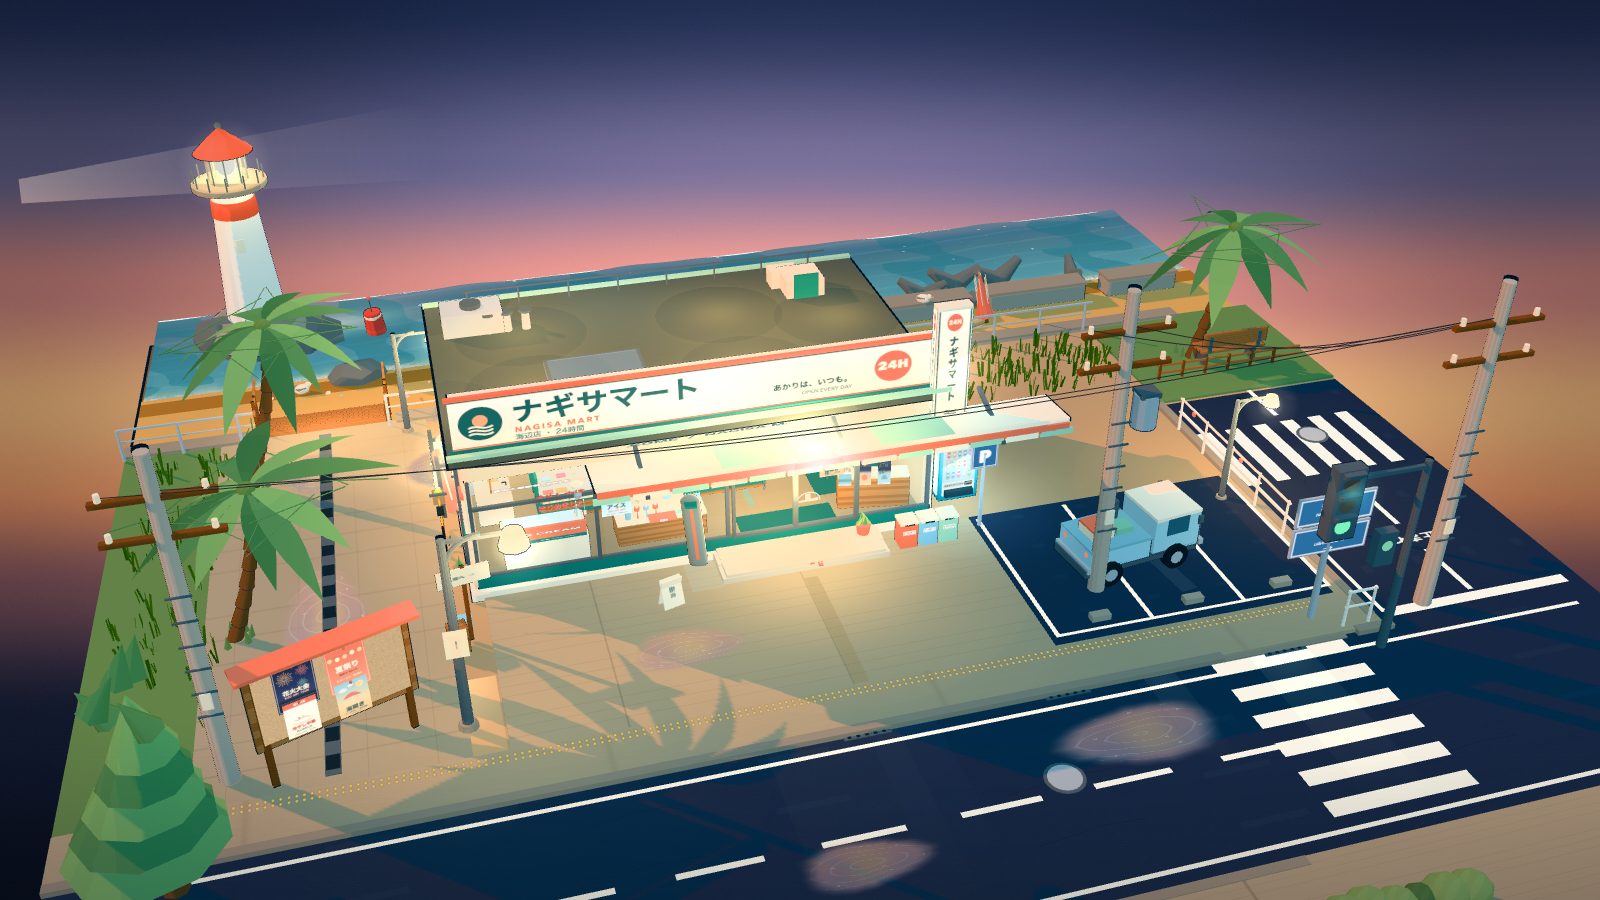
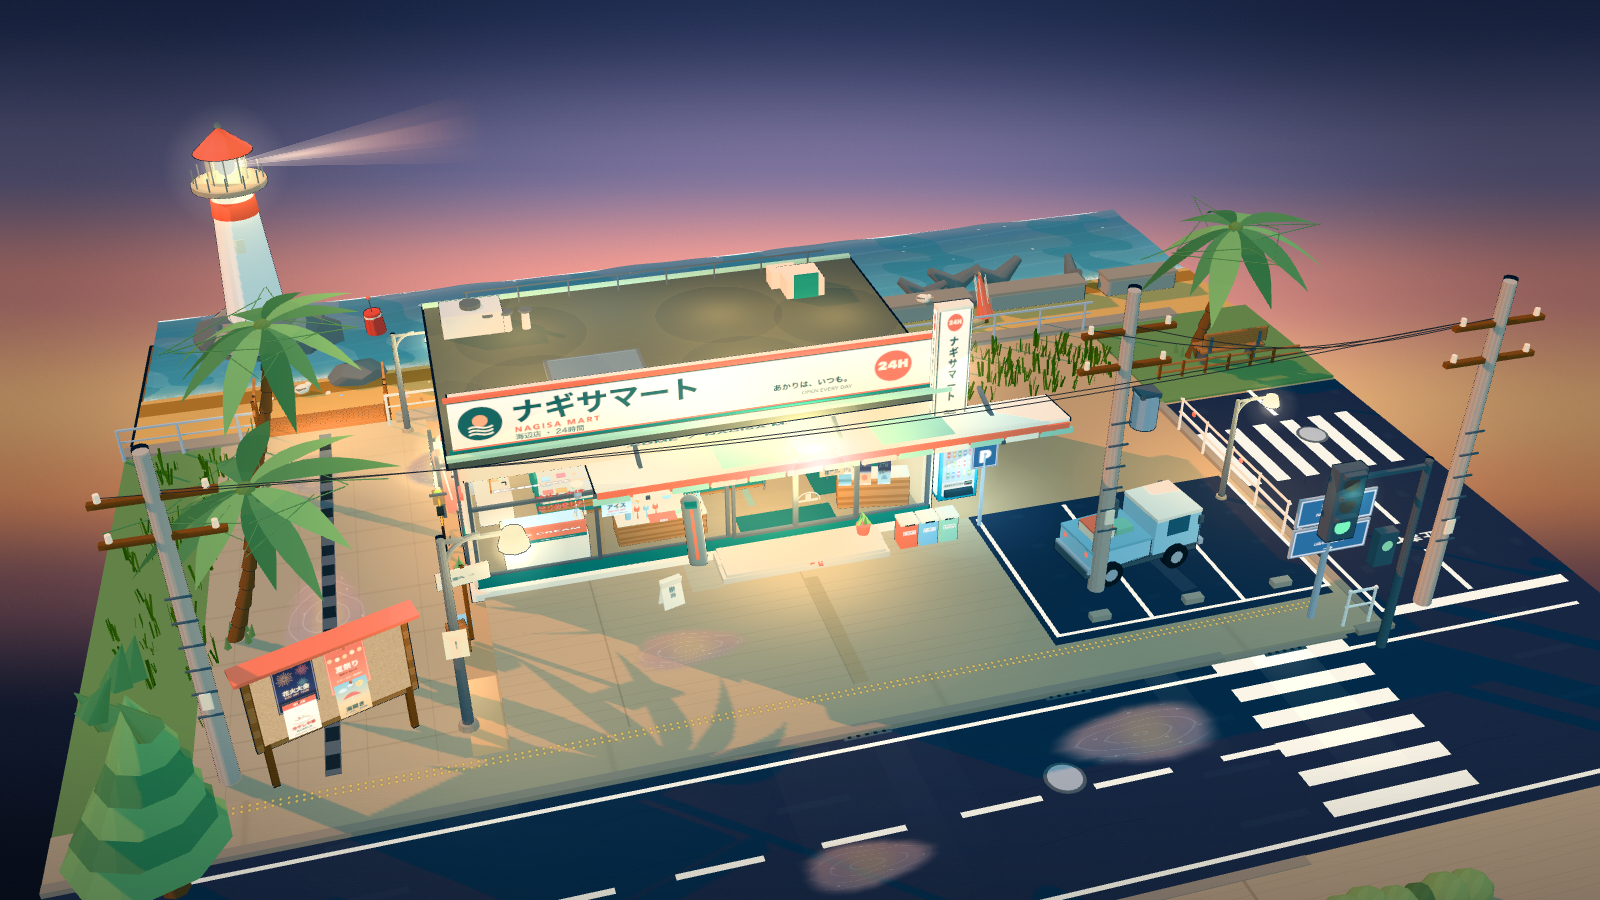
fix(seaside-store): 修正灯塔光束

Changed region(s): [[0.0, 0.1556, 0.125, 0.2489], [0.1562, 0.1244, 0.2812, 0.1867], [0.1875, 0.3422, 0.25, 0.3733]]

diff --git a/lab/seaside-store/src/world.js b/lab/seaside-store/src/world.js
@@ -481,58 +481,68 @@ function buildLighthouse(parent, M) {
   }
   // 灯芯
   const lampCore = sph(g, 0.3, 0, 5.72, 0, lit('#fff0c0'), { seg: 12, cast: false });
-  const glow = sprite(g, glowMap, '#ffdca2', 3.0, 0, 5.72, 0, { opacity: 0.6 });
+  const glow = sprite(g, glowMap, '#ffdca2', 4.0, 0, 5.72, 0, { opacity: 0.66 });
   // 屋顶
   cyl(g, 0.05, 0.9, 0.75, 0, 6.58, 0, M.lighthouseRed, { seg: 18, outline: 1.02 });
   sph(g, 0.1, 0, 7.02, 0, M.metalDark, { seg: 8 });
 
-  // 扫过海面的光束：贴着水面的长条光带，比天空里的体积光更克制
-  const beamTex = canvasTexture(512, 128, (ctx, w, h) => {
-    const gx = ctx.createLinearGradient(0, 0, w, 0);
-    gx.addColorStop(0, 'rgba(255,255,255,.95)');
-    gx.addColorStop(0.25, 'rgba(255,255,255,.5)');
-    gx.addColorStop(0.7, 'rgba(255,255,255,.16)');
-    gx.addColorStop(1, 'rgba(255,255,255,0)');
-    ctx.fillStyle = gx; ctx.fillRect(0, 0, w, h);
-    ctx.globalCompositeOperation = 'destination-in';
-    const gy = ctx.createLinearGradient(0, 0, 0, h);
-    gy.addColorStop(0, 'rgba(0,0,0,0)');
-    gy.addColorStop(0.5, 'rgba(0,0,0,1)');
-    gy.addColorStop(1, 'rgba(0,0,0,0)');
-    ctx.fillStyle = gy; ctx.fillRect(0, 0, w, h);
+  // 旋转光束：从灯室水平扫过海面的三渲二体积光
+  // 由四片绕光束轴旋转的楔形面组成，从任何水平视角都能看到柔和的光束，
+  // 不再是贴在镜头上的平面贴图。
+  const BEAM_LEN = 8.5;
+  const BEAM_W = 2.7;
+  const beamGroup = new THREE.Group();
+  beamGroup.position.set(0, 5.72, 0);
+  g.add(beamGroup);
+
+  const beamGeo = new THREE.BufferGeometry();
+  beamGeo.setAttribute('position', new THREE.BufferAttribute(new Float32Array([
+    0, -0.045, 0, 0, 0.045, 0, BEAM_LEN, -BEAM_W / 2, 0, BEAM_LEN, BEAM_W / 2, 0,
+  ]), 3));
+  beamGeo.setAttribute('uv', new THREE.BufferAttribute(new Float32Array([
+    0, 0, 0, 1, 1, 0, 1, 1,
+  ]), 2));
+  beamGeo.setIndex([0, 1, 2, 1, 3, 2]);
+
+  const beamUniforms = {
+    uTime: { value: 0 },
+    uColorA: { value: new THREE.Color('#fff1cd') },
+    uColorB: { value: new THREE.Color('#ffb15f') },
+    uOpacity: { value: 0.34 },
+  };
+  const beamMat = new THREE.ShaderMaterial({
+    uniforms: beamUniforms,
+    transparent: true,
+    depthWrite: false,
+    side: THREE.DoubleSide,
+    blending: THREE.AdditiveBlending,
+    toneMapped: false,
+    vertexShader: /* glsl */`
+      varying vec2 vUv;
+      void main() {
+        vUv = uv;
+        gl_Position = projectionMatrix * modelViewMatrix * vec4(position, 1.0);
+      }`,
+    fragmentShader: /* glsl */`
+      uniform float uTime, uOpacity;
+      uniform vec3 uColorA, uColorB;
+      varying vec2 vUv;
+      void main() {
+        float u = vUv.x;
+        float edge = smoothstep(0.0, 0.17, vUv.y) * smoothstep(1.0, 0.83, vUv.y);
+        float fade = smoothstep(0.0, 0.06, u) * pow(max(1.0 - u, 0.0), 1.35);
+        float flick = 0.92 + 0.08 * sin(uTime * 1.7 + u * 7.0);
+        vec3 col = mix(uColorA, uColorB, smoothstep(0.0, 1.0, u));
+        gl_FragColor = vec4(col, fade * edge * uOpacity * flick);
+      }`,
   });
-  const beamMat = new THREE.MeshBasicMaterial({
-    map: beamTex, color: '#ffdca2', transparent: true, opacity: 0.7, side: THREE.DoubleSide,
-    blending: THREE.AdditiveBlending, depthWrite: false, toneMapped: false,
-  });
-  const beams = new THREE.Group();
-  beams.position.set(0, -0.39, 0);
-  g.add(beams);
-  const beamPlane = new THREE.Mesh(new THREE.PlaneGeometry(6.6, 2.6), beamMat);
-  beamPlane.rotation.x = -Math.PI / 2;
-  beamPlane.position.set(3.3, 0.12, 0);
-  beamPlane.renderOrder = 10;
-  beams.add(beamPlane);
-  // 相机朝向的柔光束，保证任何角度都能看见灯塔在扫光
-  const shaftTex = canvasTexture(256, 128, (ctx, w, h) => {
-    ctx.clearRect(0, 0, w, h);
-    const g = ctx.createLinearGradient(0, 0, w, 0);
-    g.addColorStop(0, 'rgba(255,255,255,.9)');
-    g.addColorStop(0.4, 'rgba(255,255,255,.35)');
-    g.addColorStop(1, 'rgba(255,255,255,0)');
-    ctx.fillStyle = g;
-    ctx.beginPath();
-    ctx.moveTo(0, h * 0.38); ctx.lineTo(w, h * 0.12); ctx.lineTo(w, h * 0.88); ctx.lineTo(0, h * 0.62);
-    ctx.closePath(); ctx.fill();
-  });
-  const shaftMat = new THREE.SpriteMaterial({
-    map: shaftTex, color: '#ffe0a8', transparent: true, opacity: 0.32,
-    blending: THREE.AdditiveBlending, depthWrite: false, toneMapped: false,
-  });
-  const shaft = new THREE.Sprite(shaftMat);
-  shaft.position.set(0, 5.72, 0);
-  shaft.scale.set(13, 3.2, 1);
-  g.add(shaft);
+  for (let i = 0; i < 4; i++) {
+    const bm = new THREE.Mesh(beamGeo, beamMat);
+    bm.rotation.x = (i / 4) * Math.PI;
+    bm.renderOrder = 9;
+    beamGroup.add(bm);
+  }
+
   const light = new THREE.PointLight('#ffdca2', 6, 14, 2);
   light.position.set(0, 5.8, 0);
   g.add(light);
@@ -540,13 +550,13 @@ function buildLighthouse(parent, M) {
   return {
     group: g,
     update(t, dt) {
-      beams.rotation.y = -0.2 + Math.sin(t * 0.25) * 0.35;
-      const pulse = 0.85 + Math.sin(t * 1.3) * 0.12;
-      beamMat.opacity = 0.9 * pulse;
-      shaftMat.opacity = 0.22 + 0.08 * Math.sin(t * 0.9);
-      shaftMat.rotation = -0.12 + Math.sin(t * 0.25) * 0.28;
+      // 只在海面上方缓慢扫动，避免光束越过底座边缘
+      beamGroup.rotation.y = Math.sin(t * 0.16) * 0.20;
+      const pulse = 0.9 + Math.sin(t * 1.3) * 0.1;
+      beamUniforms.uTime.value = t;
+      beamUniforms.uOpacity.value = 0.34 * pulse;
       lampCore.material.color.setScalar(1);
-      glow.material.opacity = 0.52 + Math.sin(t * 2.0) * 0.08;
+      glow.material.opacity = 0.54 + Math.sin(t * 2.0) * 0.08;
     },
   };
 }

diff --git a/lab/seaside-store/CHANGELOG.md b/lab/seaside-store/CHANGELOG.md
@@ -3,6 +3,23 @@
 > 记录 `lab/seaside-store/` 的里程碑与可观察产物变更。
 > 时间取东八区，精确到分；当前为实验首版，暂无 tag。
 
+## [0.1.1] - 2026-11-17 19:52
+
+### 修复
+
+- 修正灯塔光束：
+  - 移除始终面向镜头、会越出底座的平面 Sprite 与旧贴图光带；
+  - 改为从灯室发出的四片楔形体积光，使用加色混合与沿长度 / 边缘柔化；
+  - 扫动角度限制在 ±0.20 rad，光束始终落在底座海面上方；
+  - 保留灯室暖光与海面灯塔落点的克制光感。
+- 同步重拍 `shots/` 六张 1600 × 900 截图。
+
+### 验证
+
+- `node --input-type=module --check` 通过；
+- Headless Chrome 1600 × 900 打开主视角，控制台无 JS 异常；
+- 灯塔光束不再出现平面贴片感、底座外围光斑或岩石上的异常高光。
+
 ## [0.1.0] - 2026-11-17 18:59
 
 ### 新增
